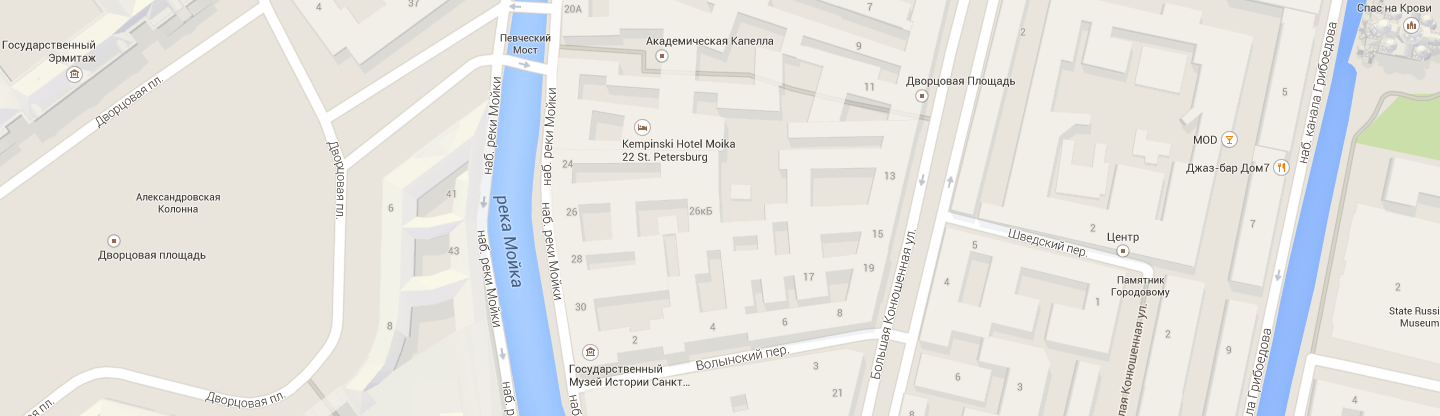
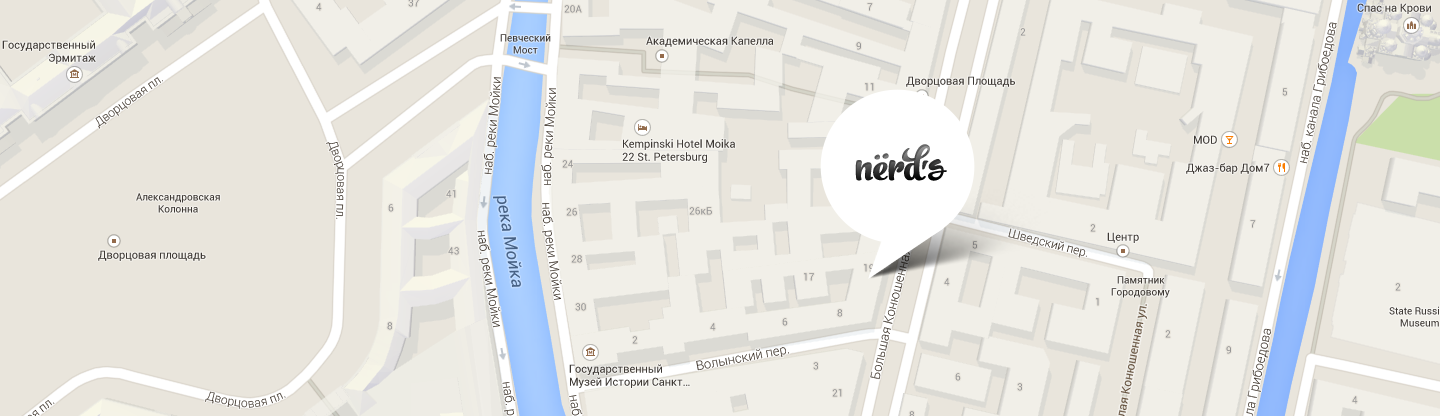
Подонал вёрстку с использованием perfect pixel

Changed region(s): [[0.5625, 0.2188, 0.6875, 0.6562]]

diff --git a/css/style.css b/css/style.css
@@ -1,3 +1,9 @@
+/*
+* {
+    outline: 1px dashed red;
+}
+*/
+
 @font-face {
     font-family: 'Roboto';
     src:
@@ -29,10 +35,6 @@
     font-style: normal;
 }
 */
-* {
-    outline: 1px dashed red;
-}
-
 
 .visually-hidden {
     position: absolute;
@@ -115,14 +117,15 @@ a {
 }
 
 .main-navigation {
+    height: 115px;
     display: flex;
+    align-items: flex-end;
     justify-content: space-between;
 }
 
 .main-header-logo {
-    padding-top: 50px;
-    padding-left: 10px;
-    width: 200px;
+    line-height: 0;
+    margin: 0 10px 0;
 }
 a.main-header-logo {
     opacity: 1.0;
@@ -138,30 +141,31 @@ a.main-header-logo:active {
     margin: 0;
     padding: 0; 
     width: 800px;
-    margin-top: 64px; 
     display: flex;    
     justify-content: center;
+    margin-bottom: 15px; 
 }
 .site-navigation ul {
     display: flex;
-    list-style: none;
+    margin: 0 auto;
+    margin-left: 110px;
+    list-style: none;    
 }
-.site-navigation  li  {
-    margin: 0px 40px 5px 5px;
+.site-navigation li {
+    margin: 0 40px 0 5px;
 }
 .navigation-item {
     text-transform: uppercase; 
     font-weight: bold; 
     font-size: 16px;
+    line-height: 20px;
     color: black;
     opacity: 1.0;
 }
-.site-navigation :hover,
-.cart :hover {
+.navigation-item:hover {
     color: #fb565a;
 }
-.site-navigation :active,
-.cart :active {
+.navigation-item:active {
     color: black;
     opacity: 0.3;
 }
@@ -179,10 +183,11 @@ a.main-header-logo:active {
 }
 .cart-item {
     display: flex;    
-    margin-top: 64px; 
     align-items: center;
     background: url("../img/icon-cart.svg") left no-repeat;
-    padding-left: 30px;
+    padding-left: 40px;
+    margin-bottom: 15px; 
+    margin-right: 30px;
 }
 
 
@@ -209,7 +214,6 @@ a.main-header-logo:active {
     width: 760px;
     height: 430px;
     padding-right: 33px; 
-    margin-top:-5px;
 }
 
 .slider-navigation {
@@ -217,7 +221,7 @@ a.main-header-logo:active {
     left: 0; 
     right: 0; 
     bottom: 10px;
-    width: 100px;  
+    width: 75px;  
     margin: 0 auto;
     padding: 0;
     display: flex;
@@ -266,6 +270,9 @@ a.main-header-logo:active {
     height: 0;
 }
 
+.features {
+    padding-top: 4px;
+}
 .features > h2 {
     font-size: 55px;
     line-height: 55px;
@@ -290,12 +297,12 @@ a.main-header-logo:active {
     list-style: none;
     display: flex;
 }
-.offer-list > li {
-    margin: 80px 100px 0 0;
+.offer-list li {
+    margin: 79px 100px 0 0;
     width: 300px;
 }
 
-.offer-list > li > h3 {
+.offer-list h3 {
     margin: 0;
     margin-top: 24px;
     font-size: 24px;     
@@ -304,17 +311,17 @@ a.main-header-logo:active {
     text-transform: uppercase; 
 }
 
-.offer-list > li > p {
+.offer-list p {
     margin: 0;
     margin-top: 20px;
     line-height: 24px;
     /*TODO: буквы шире!*/
 }
 
-.offer-list > li > a {
+.offer-list a {
     display: flex;
     margin: 0;
-    margin-top: 30px;
+    margin-top: 31px;
     height: 50px;
     width: 160px;
 }
@@ -336,8 +343,8 @@ a.main-header-logo:active {
 }
 
 .about-us-left-block > p {
-    margin: 35px 10px 0 10px;
-    line-height: 22px;
+    margin: 33px 10px 0 10px;
+    line-height: 23px;
 }
 
 .about-us-left-block > .about-us-slogan { 
@@ -345,7 +352,7 @@ a.main-header-logo:active {
 }
 
 .about-us-left-block > .services-header { 
-    margin: 42px 10px 0;
+    margin: 40px 10px 0;
     font-weight: 900;
 }
 
@@ -374,7 +381,7 @@ a.main-header-logo:active {
 
 .statistic {
     margin: 0;
-    margin-top: 45px;
+    margin-top: 44px;
     padding: 0;
     display: flex;
     list-style: none;
@@ -385,8 +392,7 @@ a.main-header-logo:active {
     margin: 20px 10px 0 10px;
 }
 .statistic > li > p.percentages {
-    margin: 0;
-    margin-left: 12px; 
+    margin: 0 11px; 
     font-size: 45px;
     line-height: 45px;
     font-weight: 900; 
@@ -436,6 +442,11 @@ a.main-header-logo:active {
     top: 85px;
 }
 
+.contacts {
+    height: 100%;
+    position: relative;
+}
+
 .address-wrapper {
     position: absolute;
     background: #ffffff;
@@ -456,15 +467,16 @@ a.main-header-logo:active {
     margin-bottom: 26px;
 }
 
-.address > p {
+.address p {
     margin-top: 18px;
     color: #666666
 }
 
-.address > p > a {
+.address a {
+    line-height: 19px;
     color: #666666
 }
-.address > p > a:hover {
+.address a:hover {
     color: #fb565a
 }
 
@@ -489,6 +501,7 @@ a.main-header-logo:active {
 
 .social-list > li {
     margin-left: 10px;
+    line-height: 0;
 }
 
 .social-item {
@@ -518,16 +531,17 @@ a.main-header-logo:active {
 }
 
 .social-slogan {
-    padding-top: 5px;
+    margin: 0;
+    padding: 6px 0 0;
     font-size: 36px;
     font-weight: 900;
     line-height: 36px;
     letter-spacing: 0.3px;
 }
 
-.social-right-block > p {
-    margin: 0;
-    margin-bottom: 13px;
+.social-description {
+    margin: 12px 0 0;
+    padding: 0;
 }
 
 .modal {

diff --git a/index.html b/index.html
@@ -18,9 +18,9 @@
 		-->
 		<header class="main-header">
 			<nav class="main-navigation container">
-				<span class="main-header-logo">
+				<div class="main-header-logo">
 					<img src="img/logo-nerds.svg" width="160" height="65" alt="Логотип дизайн-студии «Nerds»">
-				</span>
+				</div>
 				<div class="site-navigation">
 					<ul>
 						<li><a class="navigation-item" href="info.html">Студия</a></li>
@@ -32,7 +32,7 @@
 				<a class="navigation-item cart-item" href="cart.html">Корзина</a>	
 			</nav>
 		<h1 class="visually-hidden">Дизайн-студия «Nerds»</h1>
-		<section class="index-header container">
+		<section class="container">
 			<div class="slider">
 				<div class="slide slide-first">
 					<div class="features">
@@ -113,7 +113,7 @@
 				</div>
 				<div class="about-us-right-block">
 					<img src="img/illustration-logo-nerds.png" width="360" height="210" alt="Логотип дизайн-студии «Nerds»">
-					<p class="statistic-slogan uppercase"><b>C 2004 года любим точность во всем:</b></p>
+					<p class="statistic-slogan uppercase">C 2004 года любим точность во всем:</p>
 					<ul class="statistic">
 						<li>
 							<p class="percentages">146<sup>%</sup></p>
@@ -150,21 +150,20 @@
 			</section>
 			<hr>
 		</main>
+		
 		<footer class="main-footer">
 			<section class="map">
 				<h2 class="visually-hidden">Контакты:</h2>
-				<div class="container relative">
+				<div class="contacts container">
 					<div class="address-wrapper">
 						<div class="address">
-							<h3 class="address-header">
-								<b class="uppercase">Nёrds Design Studio</b>
-							</h3>
+							<h3 class="address-header uppercase">Nёrds Design Studio</h3>
 							<p>191186, Санкт-Петербург, <br>ул. Б. Конюшенная, д. 19/8</p>
 							<p>тел. <a href="tel:+78122757575">+7 (812) 275-75-75</a></p>
 							<button type="button" class="button button-write-us">Напишите нам</button>
 						</div>
 					</div>
-					<img class="map-marker" src="img/map-marker.png" width="367" height="190" alt="Указатель на карте">
+					<!--<img class="map-marker" src="img/map-marker.png" width="367" height="190" alt="Указатель на карте">-->
 				</div>
 			</section>
 			<section class="social container">
@@ -187,8 +186,8 @@
 					</li>
 				</ul>
 				<div class="social-right-block">
-					<p class="social-slogan"><b>Давайте дружить, это выгодно!</b></p>
-					<p>Скидка 10% для друзей из социальных друзей.</p>
+					<p class="social-slogan">Давайте дружить, это выгодно!</p>
+					<p class="social-description">Скидка 10% для друзей из социальных сетей.</p>
 				</div>
 			</section>
 		</footer>

diff --git a/catalog.html b/catalog.html
@@ -247,22 +247,19 @@
 				</section>
 			</div>
 		</main>
-		
 		<footer class="main-footer">
 			<section class="map">
 				<h2 class="visually-hidden">Контакты:</h2>
-				<div class="container relative">
+				<div class="contacts container">
 					<div class="address-wrapper">
 						<div class="address">
-							<h3 class="address-header">
-								<b class="uppercase">Nёrds Design Studio</b>
-							</h3>
+							<h3 class="address-header uppercase">Nёrds Design Studio</h3>
 							<p>191186, Санкт-Петербург, <br>ул. Б. Конюшенная, д. 19/8</p>
 							<p>тел. <a href="tel:+78122757575">+7 (812) 275-75-75</a></p>
 							<button type="button" class="button button-write-us">Напишите нам</button>
 						</div>
 					</div>
-					<img class="map-marker" src="img/map-marker.png" width="367" height="190" alt="Указатель на карте">
+					<!--<img class="map-marker" src="img/map-marker.png" width="367" height="190" alt="Указатель на карте">-->
 				</div>
 			</section>
 			<section class="social container">
@@ -285,12 +282,12 @@
 					</li>
 				</ul>
 				<div class="social-right-block">
-					<p class="social-slogan"><b>Давайте дружить, это выгодно!</b></p>
-					<p>Скидка 10% для друзей из социальных друзей.</p>
+					<p class="social-slogan">Давайте дружить, это выгодно!</p>
+					<p class="social-description">Скидка 10% для друзей из социальных сетей.</p>
 				</div>
 			</section>
 		</footer>
-			
+		
 		<section class="modal modal-write-us container">
 			<div class="modal-write-us-header">
 				<h2>Напишите нам</h2>
@@ -301,7 +298,7 @@
 			<form action="https://echo.htmlacademy.ru" method="post" class="write-us-100">
 				<div class="write-us-50 form-element">
 					<label for="user-name">Ваше имя:</label>
-					<input id="user-name" required type="text" name="user name" placeholder="Имя Фамилия">
+					<input id="user-name" required type="text" name="user name" placeholder="Имя Фамилия" >
 				</div>
 				<div class="write-us-50 form-element">
 					<label for="user-email">Ваш e-mail:</label>
@@ -314,6 +311,5 @@
 				<button class="button button-send">Отправить</button>
 			</form>
 		</section>
-		
-	</body>
+	</body> 
 </html>
